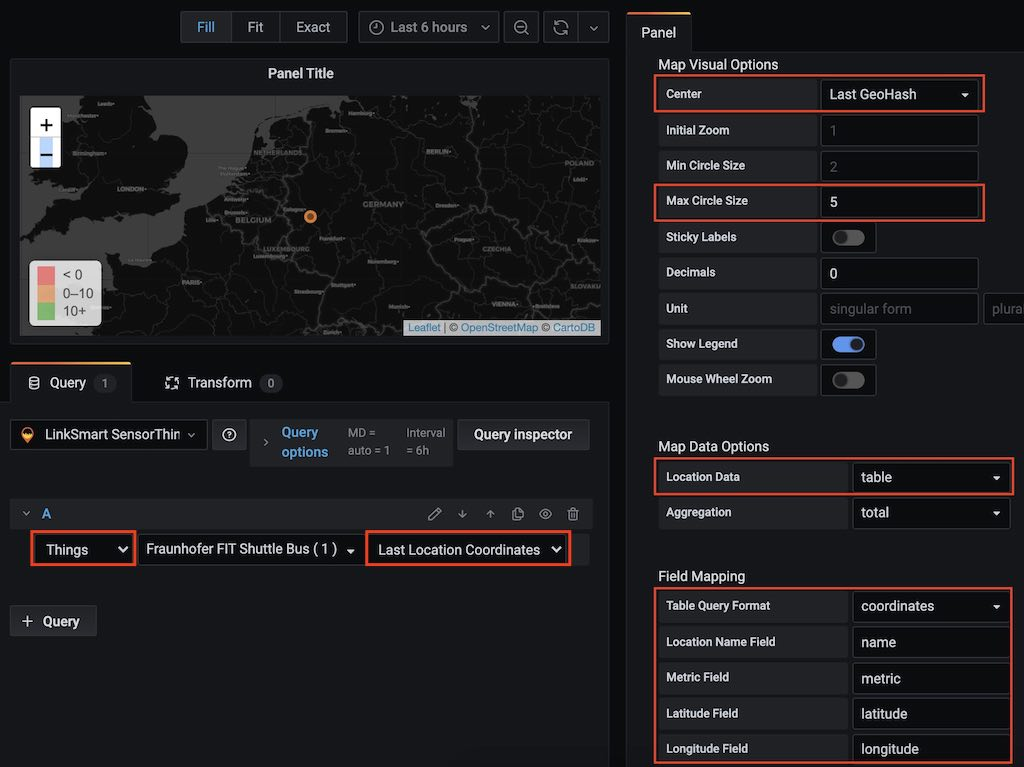
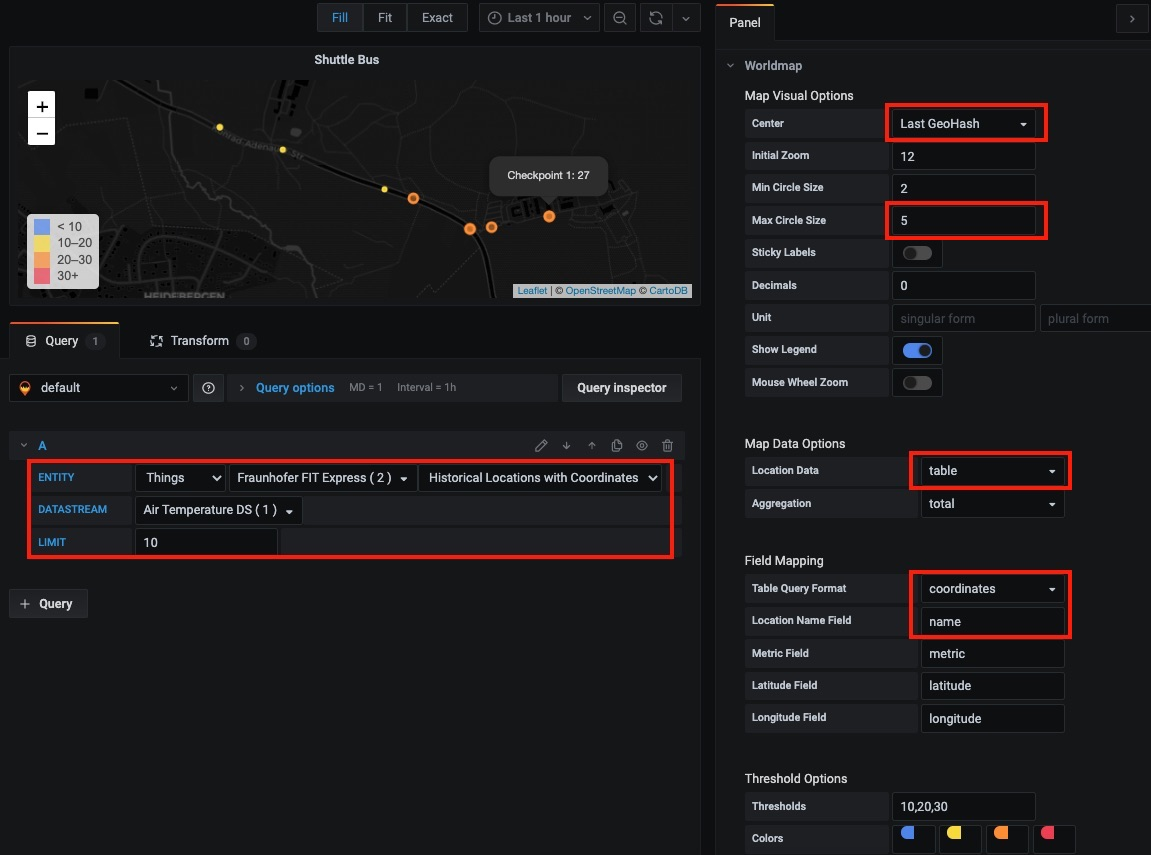
update instructions and readme for worldmap panel

diff --git a/README.md b/README.md
@@ -106,7 +106,9 @@ Using the [Grafana Worldmap Panel](https://grafana.com/grafana/plugins/grafana-w
 4. In "Query" tab:
     * Select the LinkSmart SensorThings Datasource.
     * Select `Things` and pick a Thing from from the dropdown list.
-    * Select `Last Location Coordinates`
+    * Select `Historical Locations with Coordinates`
+    * Select a Datastream if you want to query the latest observation (per Historical Location) and use that value as metric field. This metric value will determine the size and color of each circle and can be viewed by hovering on the circle.
+    * Select a Limit value to set how many locations should be retrieved from the history.
 
 ![](https://raw.githubusercontent.com/linksmart/grafana-sensorthings-datasource/master/img/worldmap_config.jpg)
 
